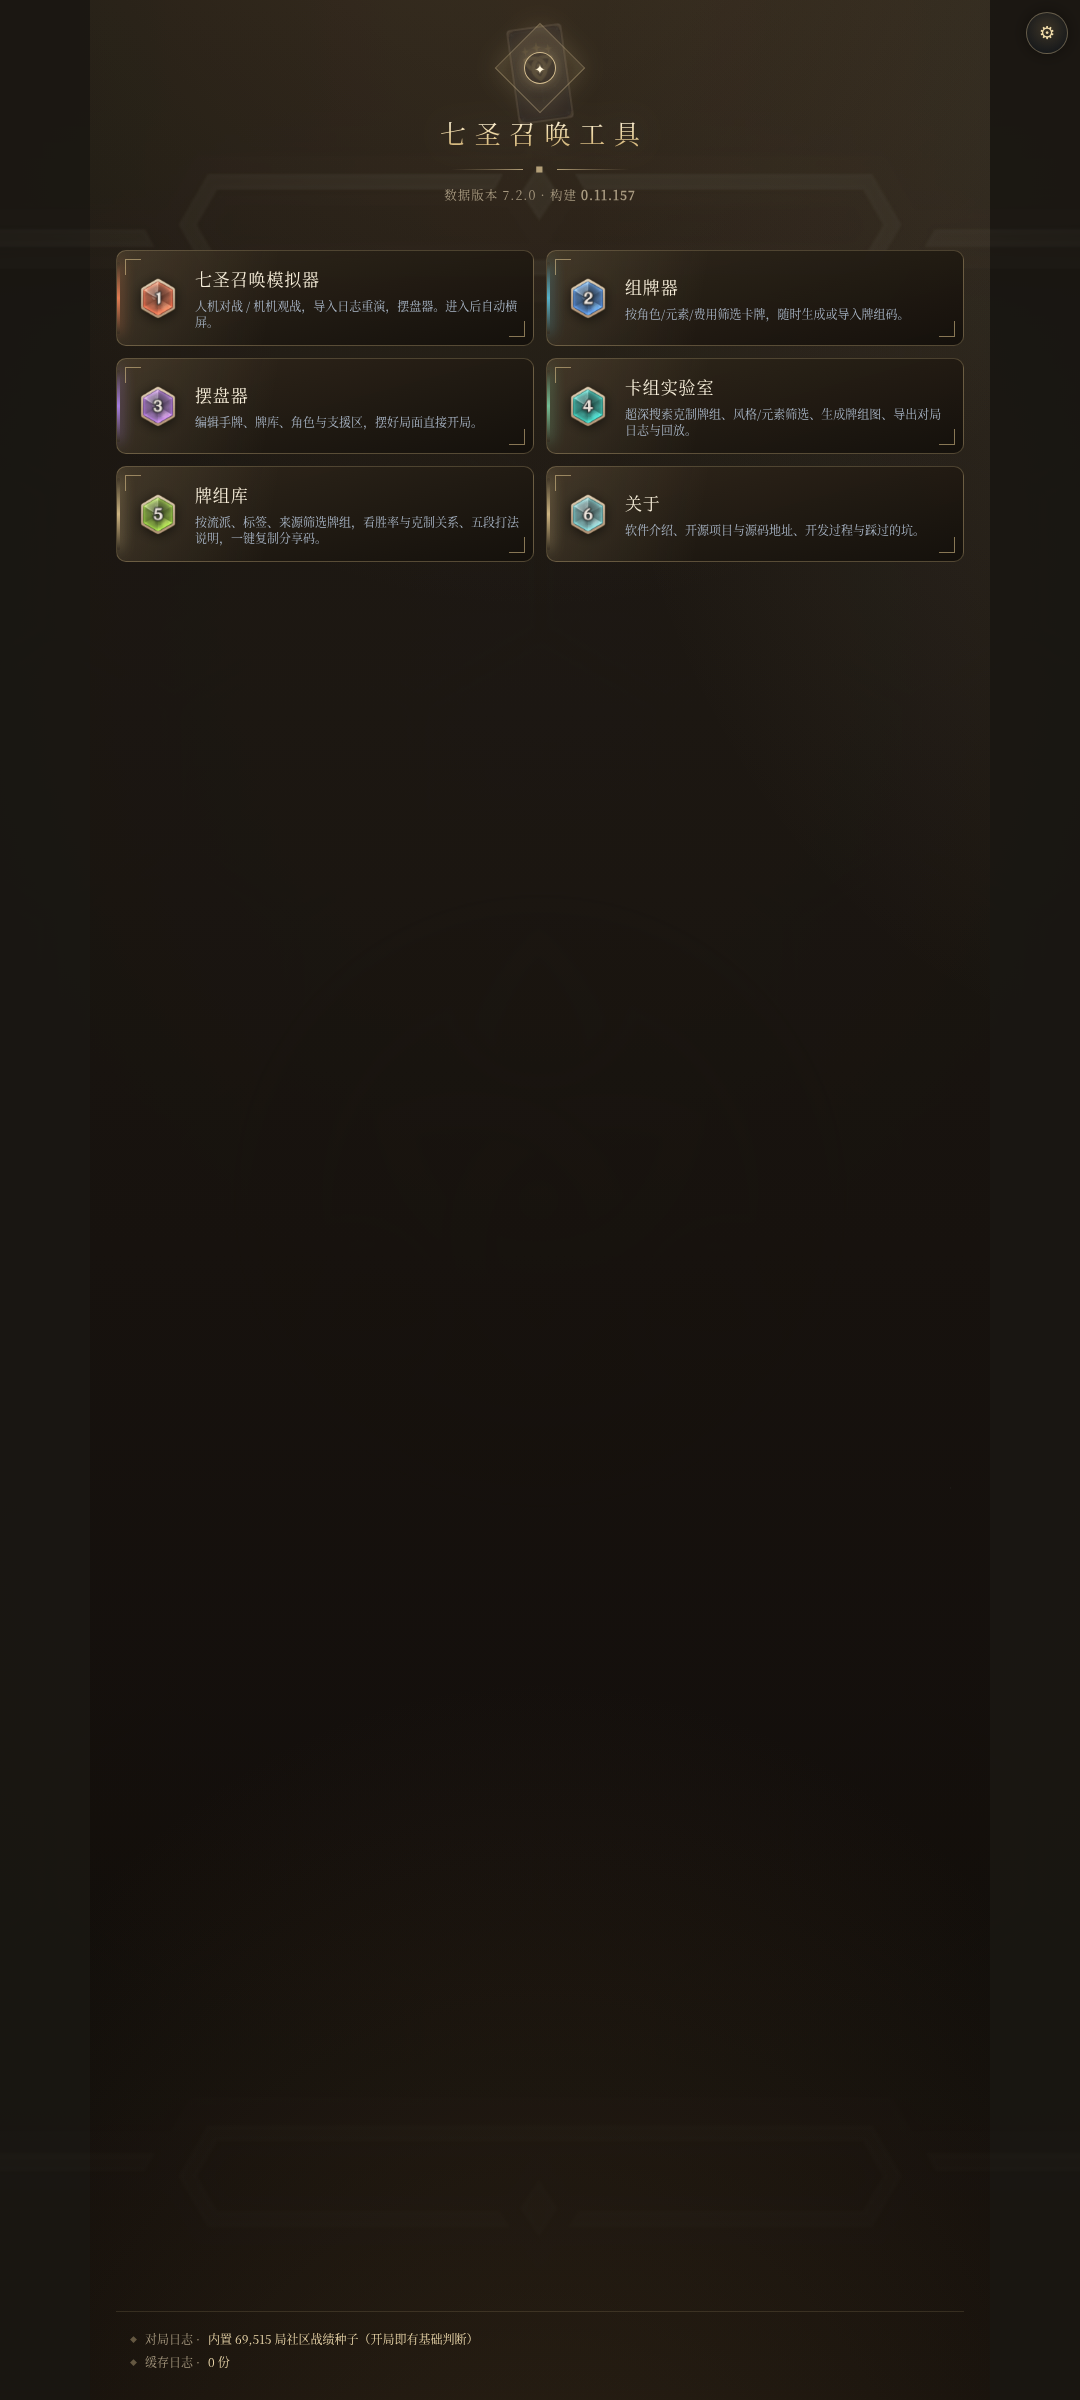
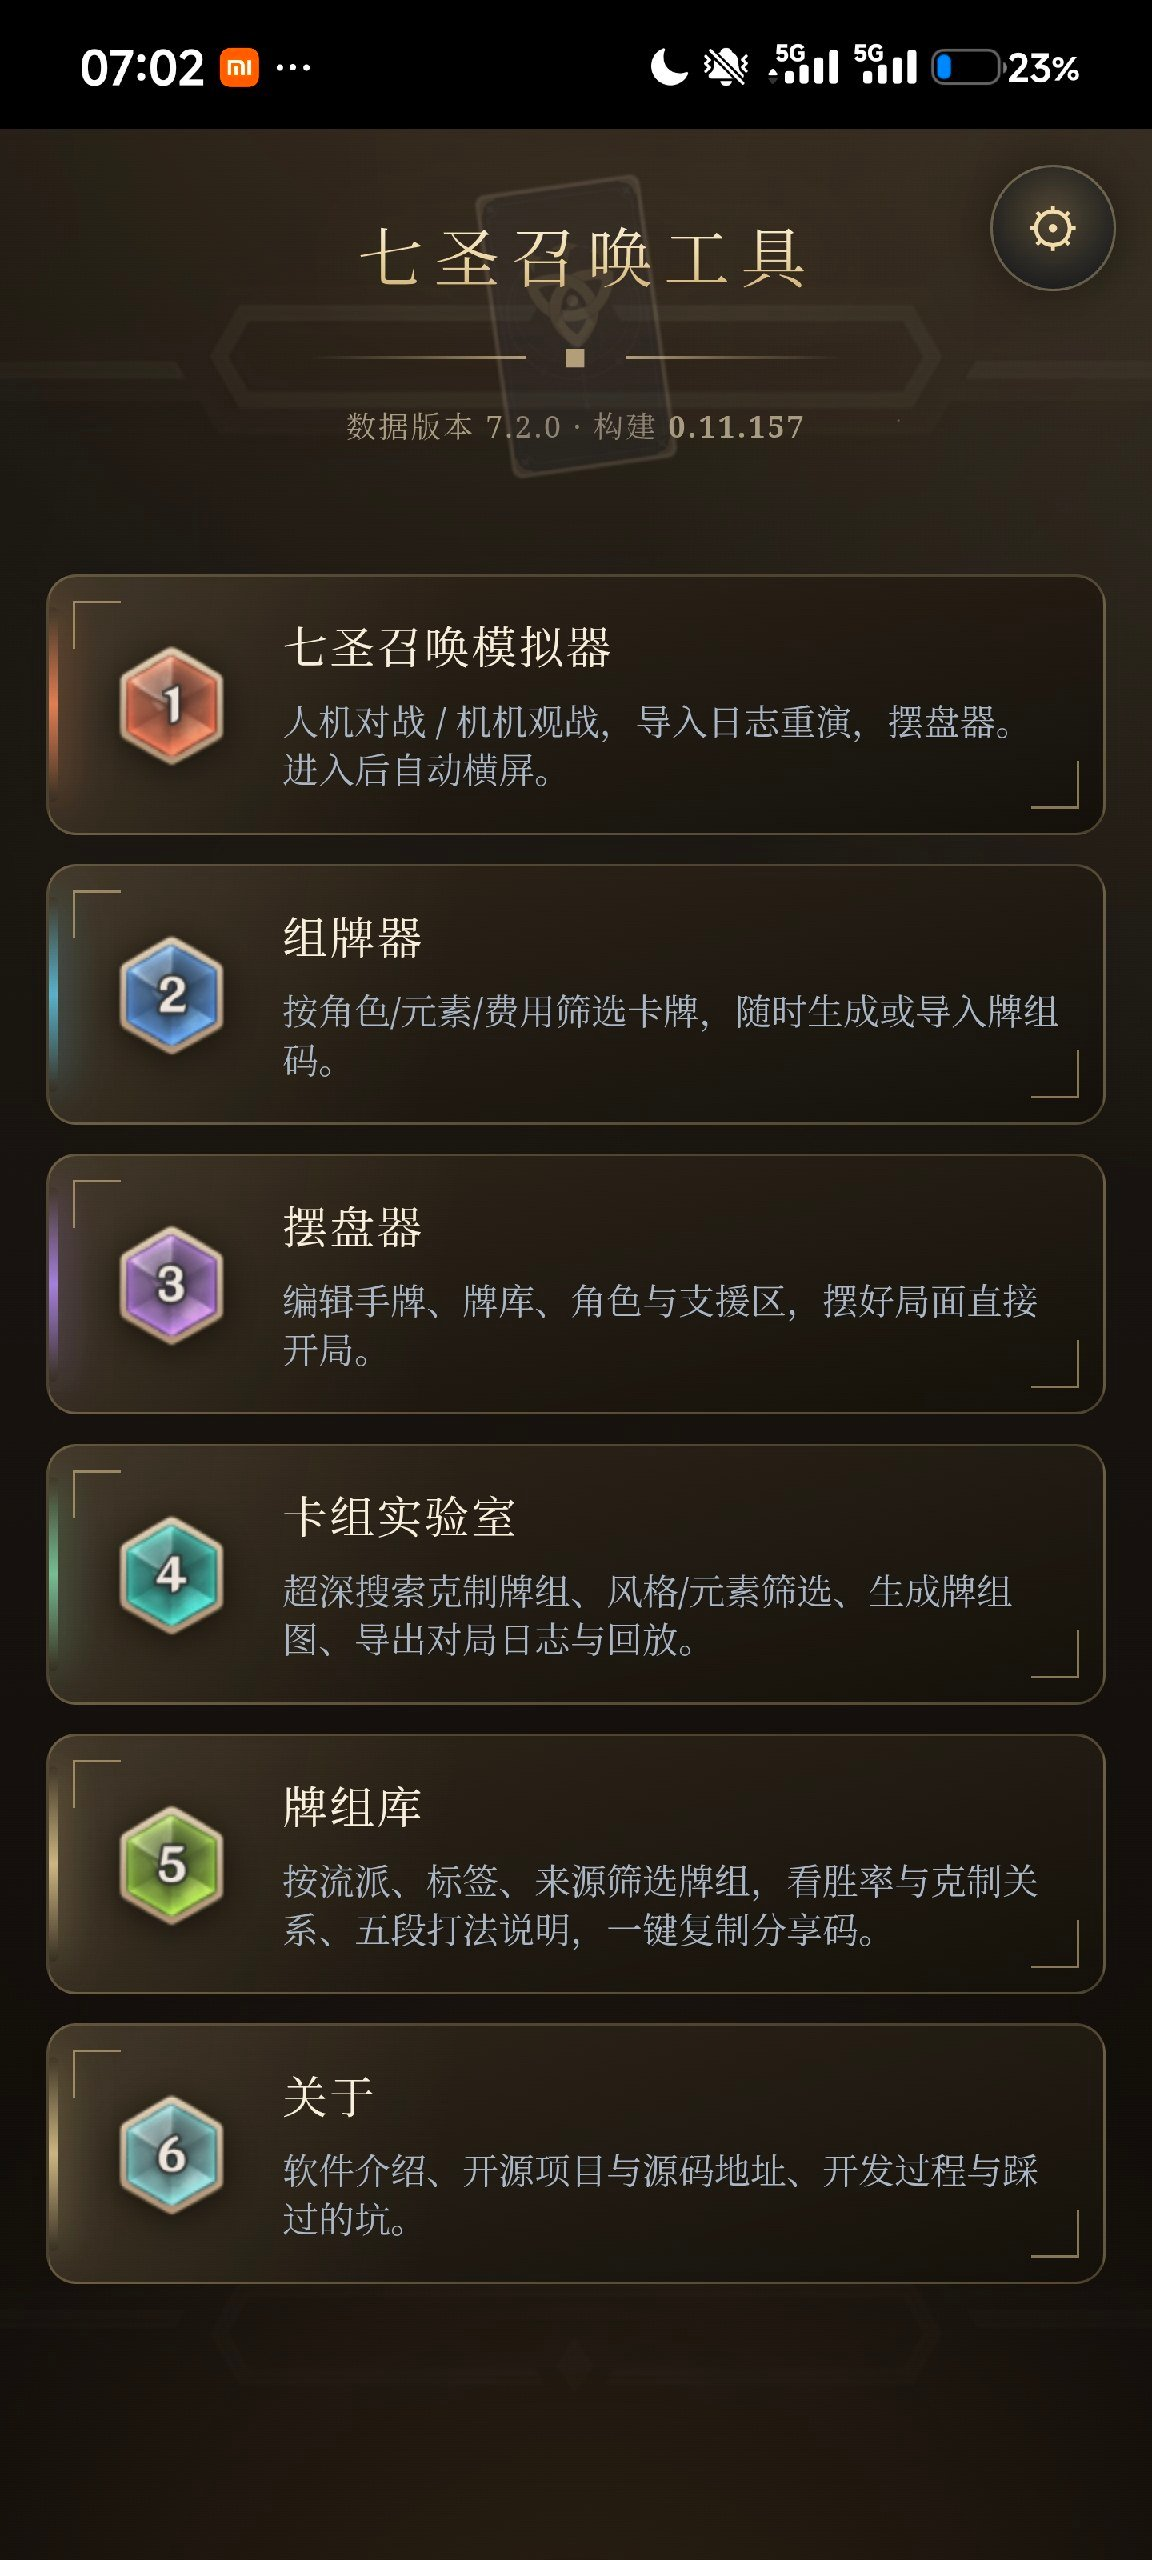
docs(screenshots): 用户实拍 9 张（6 竖屏 + 2 横屏 + 牌组图），README 重排

diff --git a/README.md b/README.md
@@ -81,22 +81,29 @@
 
 ## 三、界面预览
 
-> 6 个页面为**竖屏实拍（1080×2400）**；对局页为**横屏实拍（2400×1080）**。
+> 工具首页 / 组牌器 / 摆盘器 / 实验室 / 牌组库等为**竖屏实拍**；对局配置与对局界面为**横屏实拍**。
 
 <table>
 <tr>
-<td align="center" width="33%"><img src="./docs/screenshots/01-hub.png" width="210"><br/><sub>首页</sub></td>
-<td align="center" width="33%"><img src="./docs/screenshots/02-deck-library.png" width="210"><br/><sub>牌组库</sub></td>
-<td align="center" width="33%"><img src="./docs/screenshots/03-deck-builder.png" width="210"><br/><sub>组牌器</sub></td>
+<td align="center" width="33%"><img src="./docs/screenshots/01-hub.png" width="210"><br/><sub>工具首页</sub></td>
+<td align="center" width="33%"><img src="./docs/screenshots/04-deck-builder.png" width="210"><br/><sub>组牌器</sub></td>
+<td align="center" width="33%"><img src="./docs/screenshots/05-state-editor.png" width="210"><br/><sub>摆盘器</sub></td>
 </tr>
 <tr>
-<td align="center"><img src="./docs/screenshots/04-lab.png" width="210"><br/><sub>卡组实验室</sub></td>
-<td align="center"><img src="./docs/screenshots/05-state-editor.png" width="210"><br/><sub>摆盘器</sub></td>
-<td align="center"><img src="./docs/screenshots/06-about.png" width="210"><br/><sub>关于</sub></td>
+<td align="center"><img src="./docs/screenshots/06-lab.png" width="210"><br/><sub>卡组实验室</sub></td>
+<td align="center"><img src="./docs/screenshots/07-lab-deck-image.png" width="210"><br/><sub>实验室 · 生成牌组图</sub></td>
+<td align="center"><img src="./docs/screenshots/08-deck-library.png" width="210"><br/><sub>牌组库</sub></td>
 </tr>
 </table>
 
-<img src="./docs/screenshots/07-game.png" width="100%"><br/><sub>对局模拟器（横屏 2400×1080）</sub>
+<table>
+<tr>
+<td width="50%"><img src="./docs/screenshots/02-sim-config.png"><br/><sub>模拟器 · 对局配置（横屏）</sub></td>
+<td width="50%"><img src="./docs/screenshots/03-sim-game.png"><br/><sub>模拟器 · 对局界面（横屏）</sub></td>
+</tr>
+</table>
+
+<p align="center"><img src="./docs/screenshots/09-deck-image.png" width="280"><br/><sub>牌组图（由工具生成）</sub></p>
 
 ## 四、整体结构
 

diff --git a/docs/USER-GUIDE.zh.md b/docs/USER-GUIDE.zh.md
@@ -22,7 +22,7 @@
 3. 选好双方牌组（或点「随机」）；
 4. 点「开始对局」。
 
-![对局界面](./screenshots/07-game.png)
+![对局界面](./screenshots/03-sim-game.png)
 
 - 中间是双方角色区，下面是手牌和骰子；
 - 点角色/技能/手牌出行动，右上角是回合与阶段；
@@ -30,7 +30,7 @@
 
 ## 3. 牌组库
 
-![牌组库](./screenshots/02-deck-library.png)
+![牌组库](./screenshots/08-deck-library.png)
 
 - 顶部筛选：流派、元素、来源、作者、卡牌；
 - 每张卡片显示：角色、胜率、对局数、打法标签；
@@ -39,7 +39,7 @@
 
 ## 4. 组牌器
 
-![组牌器](./screenshots/03-deck-builder.png)
+![组牌器](./screenshots/04-deck-builder.png)
 
 1. 先选 3 个角色（不能重复）；
 2. 再挑 30 张行动牌（可按费用/元素/类型筛选）；
@@ -64,7 +64,7 @@
 
 ## 5. 卡组实验室
 
-![实验室](./screenshots/04-lab.png)
+![实验室](./screenshots/06-lab.png)
 
 1. 粘贴对手的牌组码（或从牌组库选一套）；
 2. 设置「每副候选对局数」（2~30，默认 6）；
